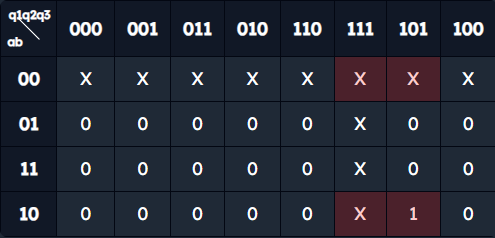
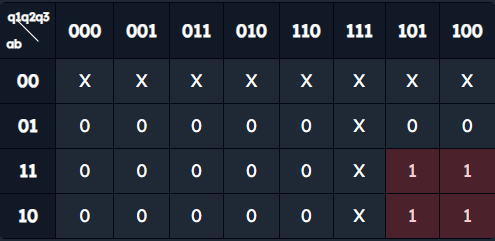
Немного поправил сигналы, связанные с секундомером

diff --git a/Отчёт/Отчёт курсовая работа_5130201 20102_Гаар В.С..tex b/Отчёт/Отчёт курсовая работа_5130201 20102_Гаар В.С..tex
@@ -312,21 +312,20 @@ stringstyle =\bfseries} % шрифт для строк
   \item $S_1$ -- состояние коррекции минут (\textit{minutes correction}). В этом состоянии горят только индикаторы минут.
   \item $S_2$ -- состояние коррекции часов (\textit{hours correction}). В этом состоянии горят только индикаторы часов.
   \item $S_3$ -- состояние коррекции дня недели (\textit{day of the week correction}). В этом состоянии горит только индикатор дня недели.
-  \item $S_4$ -- состояние отображения времени секундомера (\textit{stopwatch}). На индикаторах -- идущее время (минуты и секунды) секундомера.
+  \item $S_4$ -- состояние запущенного секундомера (\textit{stopwatch running}). На индикаторах -- идущее время (минуты и секунды) секундомера.
   \item $S_5$ -- состояние остановленного секундомера (\textit{stopwatch pause}). На индикаторах -- минуты и секунды секундомера. В этом состоянии секундомер не отсчитывает время.
   \item $S_6$ -- состояние остановленных часов (\textit{time stop}). На индикаторах -- часы, минуты и день недели. В этом состоянии время зафиксировано и не изменяется.
 \end{itemize}
 
 Множество выходных сигналов $Y = \{z_0, z_1, z_2, z_3, z_4, z_5, z_6\}$, где
 \begin{itemize}
-  \item $z_0$ -- нейтральный сигнал.
+  \item $z_0$ -- нейтральный сигнал;
   \item $z_1$ -- прибавление единицы к минутам при корректировке;
   \item $z_2$ -- прибавление единицы к часам при корректировке;
   \item $z_3$ -- смена дня недели на следующий при корректировке;
-  \item $z_4$ -- запуск секундомера;
-  \item $z_5$ -- остановка/запуск секундомера;
-  \item $z_6$ -- сброс текущего значения секундомера;
-  \item $z_7$ -- остановка/запуск часов.
+  \item $z_4$ -- остановка/запуск секундомера;
+  \item $z_5$ -- сброс текущего значения секундомера;
+  \item $z_6$ -- остановка/запуск часов.
 \end{itemize}
 
 Входной алфавит $\Sigma = \{a, b, ab\}$, где
@@ -417,8 +416,8 @@ stringstyle =\bfseries} % шрифт для строк
   \hline
   % s0
   a  & $s_0:$ time & $s_1:$ minutes correction & $z_0$ \\
-  b  & $s_0:$ time & $s_4:$ stopwatch & $z_0$ \\
-  ab & $s_0:$ time & $s_6:$ time stop & $z_7$ \\
+  b  & $s_0:$ time & $s_4:$ stopwatch running & $z_0$ \\
+  ab & $s_0:$ time & $s_6:$ time stop & $z_6$ \\
   \hline
 
   % s1
@@ -440,21 +439,21 @@ stringstyle =\bfseries} % шрифт для строк
   \hline
 
   % s4
-  a  & $s_4:$ stopwatch & $s_4:$ stopwatch & $z_4$ \\
-  b  & $s_4:$ stopwatch & $s_5:$ stopwatch pause & $z_5$ \\
-  ab & $s_4:$ stopwatch & $s_0:$ time & $z_0$ \\
+  a  & $s_4:$ stopwatch running & $s_4:$ stopwatch running & $z_5$ \\
+  b  & $s_4:$ stopwatch running & $s_5:$ stopwatch pause & $z_4$ \\
+  ab & $s_4:$ stopwatch running & $s_0:$ time & $z_5$ \\
   \hline
 
   % s5
-  a  & $s_5:$ stopwatch pause & $s_5:$ stopwatch pause & $z_6$ \\
-  b  & $s_5:$ stopwatch pause & $s_4:$ stopwatch & $z_5$ \\
-  ab & $s_5:$ stopwatch pause & $s_0:$ time & $z_0$ \\
+  a  & $s_5:$ stopwatch pause & $s_5:$ stopwatch pause & $z_5$ \\
+  b  & $s_5:$ stopwatch pause & $s_4:$ stopwatch running & $z_4$ \\
+  ab & $s_5:$ stopwatch pause & $s_0:$ time & $z_5$ \\
   \hline
 
   % s6
   a  & $s_6:$ time stop & $s_6:$ time stop & $z_0$ \\
   b  & $s_6:$ time stop & $s_6:$ time stop & $z_0$ \\
-  ab & $s_6:$ time stop & $s_0:$ time & $z_7$ \\
+  ab & $s_6:$ time stop & $s_0:$ time & $z_6$ \\
   \hline
   \end{tabularx}
 \end{table}
@@ -587,11 +586,11 @@ stringstyle =\bfseries} % шрифт для строк
   \hline
 
   %         S4
-  1 & 0 &   1 & 0 & 0 &  1 & 0 & 0 &  0 & 0 & 0 & 0\\
+  1 & 0 &   1 & 0 & 0 &  1 & 0 & 0 &  0 & 0 & 0 & 1\\
   \hline
   0 & 1 &   1 & 0 & 0 &  1 & 0 & 1 &  0 & 0 & 0 & 0\\
   \hline
-  1 & 1 &   1 & 0 & 0 &  0 & 0 & 0 &  0 & 0 & 0 & 0\\
+  1 & 1 &   1 & 0 & 0 &  0 & 0 & 0 &  0 & 0 & 0 & 1\\
   \hline
 
   %         S5
@@ -599,7 +598,7 @@ stringstyle =\bfseries} % шрифт для строк
   \hline
   0 & 1 &   1 & 0 & 1 &  1 & 0 & 0 &  0 & 0 & 0 & 0\\
   \hline
-  1 & 1 &   1 & 0 & 1 &  0 & 0 & 0 &  0 & 0 & 0 & 0\\
+  1 & 1 &   1 & 0 & 1 &  0 & 0 & 0 &  0 & 0 & 0 & 1\\
   \hline
 
   %         S6
@@ -680,7 +679,7 @@ stringstyle =\bfseries} % шрифт для строк
 \[i_1 = \neg x_1 \neg q_1 \neg q_2 q_3\]
 \[i_2 = \neg x_1 \neg q_1 q_2 \neg q_3\]
 \[i_3 = \neg x_1 q_2 q_3\]
-\[i_4 = \neg x_2 q_1 q_3\]
+\[i_4 = x_1 q_1 \neg q_2\]
 
 \subsubsection{Минимизация для $L_1$-$L_6$}
 По Табл.~\ref{tbl:fl} были построены формулы для $L_1, L_2, L_3, L_4, L_5, L_6$. На Рис.~\ref{img:karno_l} приведены карты Карно для минимизации $L_1, L_2, L_3, L_4, L_5, L_6$ соответственно.
